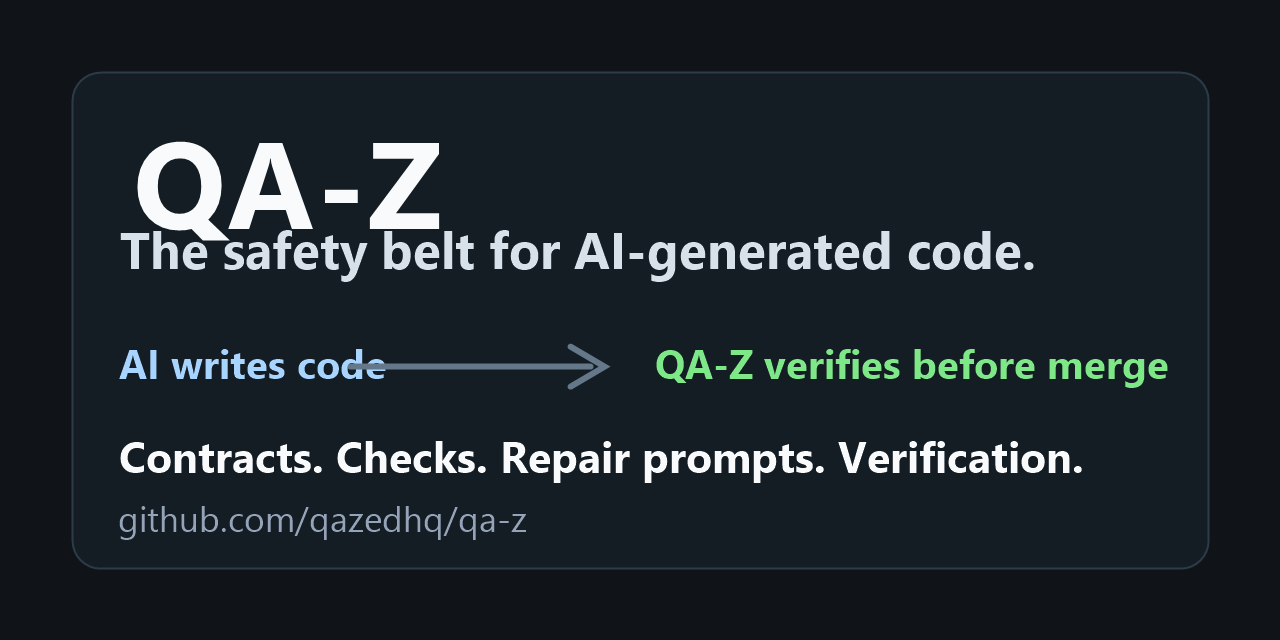
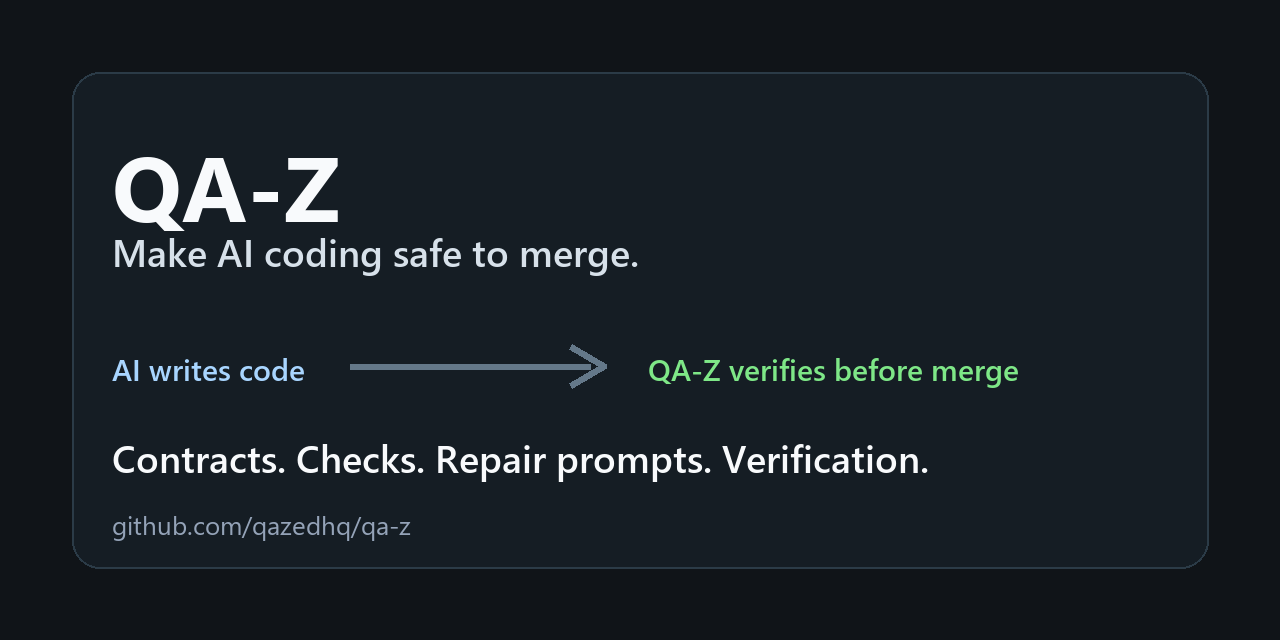
docs: add visual launch demo assets
- Add deterministic QA-Z terminal demo asset
- Link README to the visual/cast proof
- Update examples docs with visual proof and runnable/placeholder labels
- Update launch docs for demo GIF, social preview, and launch post copy

diff --git a/tests/test_launch_growth_package.py b/tests/test_launch_growth_package.py
@@ -38,6 +38,8 @@ def test_launch_growth_package_covers_requested_surfaces() -> None:
         "docs/walkthroughs/auth-bug.md",
         "docs/walkthroughs/pr-gate.md",
         "docs/walkthroughs/sarif-code-scanning.md",
+        "docs/assets/qa-z-demo.cast",
+        "docs/assets/qa-z-demo.svg",
         "docs/assets/qa-z-agent-auth-bug.cast",
         "examples/fastapi-agent-bug/README.md",
         "examples/typescript-agent-bug/README.md",
@@ -90,6 +92,58 @@ def test_demo_asciinema_asset_is_real_cast_shape() -> None:
     assert "qa-z deep" in body
     assert "qa-z verify" in body
     assert "verdict: improved" in body
+
+
+def test_readme_demo_visual_is_checked_in_and_public_safe() -> None:
+    readme = read("README.md")
+    demo_cast_lines = read("docs/assets/qa-z-demo.cast").splitlines()
+    demo_svg = read("docs/assets/qa-z-demo.svg")
+
+    assert "Planned demo asset" not in readme
+    assert "docs/assets/qa-z-demo.svg" in readme
+    assert "docs/assets/qa-z-demo.cast" in readme
+    assert "See QA-Z catch a risky agent auth change before merge." in readme
+
+    header = json.loads(demo_cast_lines[0])
+    body = "\n".join(demo_cast_lines[1:])
+
+    assert header["version"] == 2
+    assert header["width"] == 100
+    assert header["height"] == 28
+    assert "timestamp" not in header
+    for text in (
+        "pipx install git+https://github.com/qazedhq/qa-z.git",
+        "qa-z init --profile python --with-agent-templates",
+        "qa-z doctor",
+        "qa-z demo auth-bug",
+        "qa-z guard --from-run latest --adapter codex",
+        "Verdict: DO NOT MERGE YET",
+        "qa-z repair-prompt --from-run latest --adapter codex",
+    ):
+        assert text in body
+        assert text in demo_svg
+
+    public_surfaces = "\n".join([readme, body, demo_svg])
+    for forbidden in ("F:\\", "C:\\Users", "SECRET", "TOKEN", "BEGIN PRIVATE"):
+        assert forbidden not in public_surfaces
+
+
+def test_examples_index_links_visual_proof_and_labels_run_status() -> None:
+    examples_index = read("examples/README.md")
+    agent_demo = read("examples/agent-auth-bug/README.md")
+    fastapi_agent = read("examples/fastapi-agent-bug/README.md")
+    ts_agent = read("examples/typescript-agent-bug/README.md")
+
+    assert "## Visual proof" in examples_index
+    assert "../docs/assets/qa-z-demo.svg" in examples_index
+    assert "../docs/assets/qa-z-agent-auth-bug.cast" in examples_index
+    assert "Runnable" in examples_index
+    assert "Placeholder-only" in examples_index
+
+    for doc in (agent_demo, fastapi_agent, ts_agent):
+        assert "Terminal proof" in doc
+        assert "qa-z-agent-auth-bug.cast" in doc
+        assert "qa-z verify" in doc
 
 
 def test_agent_bug_examples_are_documented_and_configured() -> None:
@@ -179,6 +233,9 @@ def test_launch_asset_docs_avoid_fabricated_public_claims() -> None:
     )
 
     assert "qa-z-social-preview.png" in combined
+    assert "qa-z-demo.svg" in combined
+    assert "QA-Z" in combined
+    assert "Make AI coding safe to merge." in combined
     assert "qa-z-agent-auth-bug.cast" in combined
     assert "No package registry publish has happened yet." in combined
     assert "fake adoption" in combined

diff --git a/tests/test_demo_guard_action_package.py b/tests/test_demo_guard_action_package.py
@@ -150,7 +150,9 @@ def test_public_install_docs_and_readme_reference_guard_and_skill_pack() -> None
 
     assert "Make AI coding safe to merge." in readme
     assert readme.startswith("# QA-Z 🛡\n\n> Make AI coding safe to merge.\n")
-    assert "docs/assets/qa-z-demo.gif" in readme
+    assert "docs/assets/qa-z-demo.svg" in readme
+    assert "docs/assets/qa-z-demo.cast" in readme
+    assert "not a GIF" in readme
     assert "qa-z guard" in readme
     assert "qa-z skill install all" in readme
     assert "pipx install git+https://github.com/qazedhq/qa-z.git" in readme

diff --git a/docs/launch/demo-gif-plan.md b/docs/launch/demo-gif-plan.md
@@ -1,27 +1,42 @@
-# Demo GIF Plan
+# Demo Visual Asset
 
-The demo GIF should be generated from the checked-in asciinema cast, not from
-hand-edited or fabricated terminal output.
+Status: the README now uses a checked-in terminal cast and SVG visual. No GIF is committed in this package; if a GIF is added later, it must be generated from the checked-in casts below.
 
-Source:
+Checked-in sources:
 
+- [../assets/qa-z-demo.cast](../assets/qa-z-demo.cast)
+- [../assets/qa-z-demo.svg](../assets/qa-z-demo.svg)
 - [../assets/qa-z-agent-auth-bug.cast](../assets/qa-z-agent-auth-bug.cast)
 
-Scenario:
+README scenario:
 
 ```bash
+pipx install git+https://github.com/qazedhq/qa-z.git
+qa-z init --profile python --with-agent-templates
+qa-z doctor
 qa-z demo auth-bug
-qa-z guard
+qa-z guard --from-run latest --adapter codex
 qa-z repair-prompt --from-run latest --adapter codex
+```
+
+Full agent-auth-bug cast scenario:
+
+```bash
+qa-z plan --title "AI auth bug caught by QA-Z" --issue issue.md --spec spec.md --slug ai-auth-bug --overwrite
+qa-z fast --output-dir .qa-z/runs/baseline
+qa-z deep --from-run .qa-z/runs/baseline
+qa-z repair-prompt --from-run .qa-z/runs/baseline --adapter codex
 qa-z verify --baseline-run .qa-z/runs/baseline --candidate-run .qa-z/runs/candidate
 ```
 
-Acceptance:
+Acceptance status:
 
-- The GIF is short enough for the README first screen.
-- The GIF shows deterministic QA-Z evidence, not live-agent execution.
-- The README keeps copyable text commands next to the visual.
+- README links to the short SVG visual and terminal cast without replacing text commands.
+- The asset is deterministic and public-safe.
+- The full agent-auth-bug cast shows deterministic QA-Z evidence, not live-agent execution.
+- Examples documentation links the cast proof and keeps runnable versus placeholder labels explicit.
 - Local machine paths, secrets, and private artifacts are not visible.
+- A future GIF is optional, not required to close the current visual proof issues.
 
 Validation:
 

diff --git a/docs/launch/launch-post.md b/docs/launch/launch-post.md
@@ -3,17 +3,17 @@
 These drafts are starting points for public launch surfaces. They intentionally
 avoid adoption numbers, package-registry claims, or claims that QA-Z edits code.
 
-## GitHub Release / Repository Post
+## GitHub Repository Post
 
-QA-Z is the safety belt for AI-generated code.
+QA-Z makes AI coding safe to merge.
 
 Coding agents write code quickly. QA-Z turns their changes into deterministic
 merge evidence: QA contracts, fast checks, Semgrep-backed deep checks, repair
 prompts, and post-repair verification.
 
-Try the local auth-bug demo, inspect the generated `.qa-z` artifacts, and open a
-good-first issue from the launch queue if you want to help make agent-generated
-code safer to merge.
+Try the terminal demo in the README, inspect the checked-in casts under
+`docs/assets/`, and run the local auth-bug example to see QA-Z stop a risky auth
+change before merge.
 
 ## Hacker News
 
@@ -36,5 +36,6 @@ QA-Z tells you if that code is safe to merge.
 It wraps agent-generated changes in deterministic QA evidence: contracts,
 checks, repair prompts, and post-repair verification.
 
+Terminal demo: https://github.com/qazedhq/qa-z/blob/main/docs/assets/qa-z-demo.cast
 Alpha prerelease: https://github.com/qazedhq/qa-z/releases/tag/v0.9.9-alpha
 Repo: https://github.com/qazedhq/qa-z

diff --git a/docs/launch/social-preview.md b/docs/launch/social-preview.md
@@ -1,19 +1,28 @@
 # Social Preview
 
-Use the existing launch preview asset for GitHub's repository social preview:
+Final copy:
+
+```text
+QA-Z 🛡
+Make AI coding safe to merge.
+Contracts. Checks. Repair prompts. Verification.
+```
+
+Use the checked-in launch preview assets as the source for GitHub's repository social preview:
 
 - PNG upload target: [../assets/qa-z-social-preview.png](../assets/qa-z-social-preview.png)
 - Editable source: [../assets/qa-z-social-preview.svg](../assets/qa-z-social-preview.svg)
 - Size: `1280 x 640`
 
-Copy:
+Exact GitHub UI steps:
 
-```text
-QA-Z
-The safety belt for AI-generated code.
-Contracts. Checks. Repair prompts. Verification.
-github.com/qazedhq/qa-z
-```
+1. Open `https://github.com/qazedhq/qa-z/settings`.
+2. In **General**, scroll to **Social preview**.
+3. Select **Upload image**.
+4. Upload `docs/assets/qa-z-social-preview.png`.
+5. Save the repository settings and re-open the public repository page to confirm the preview.
+
+Status: this commit updates the repository asset plan only. It does not claim the GitHub UI social preview has been set.
 
 Do not add fake screenshots, fake adoption numbers, or package-registry claims.
 If the copy changes, update the SVG and regenerate the PNG from that source.

diff --git a/README.md b/README.md
@@ -10,12 +10,19 @@
 
 AI agents write code fast. QA-Z turns their changes into deterministic merge evidence: contracts, checks, repair prompts, and verification reports.
 
-Planned demo asset: `docs/assets/qa-z-demo.gif`. Until that GIF lands, run the local demo:
+See QA-Z catch a risky agent auth change before merge.
+
+![QA-Z terminal demo](docs/assets/qa-z-demo.svg)
+
+This is a deterministic terminal cast proof, not a GIF. The checked-in sources are [docs/assets/qa-z-demo.cast](docs/assets/qa-z-demo.cast), [docs/assets/qa-z-demo.svg](docs/assets/qa-z-demo.svg), and the fuller [agent-auth-bug asciinema cast](docs/assets/qa-z-agent-auth-bug.cast).
 
 ```bash
 pipx install git+https://github.com/qazedhq/qa-z.git
+qa-z init --profile python --with-agent-templates
+qa-z doctor
 qa-z demo auth-bug
-qa-z guard
+qa-z guard --from-run latest --adapter codex
+qa-z repair-prompt --from-run latest --adapter codex
 ```
 
 ## Quickstart

diff --git a/examples/README.md b/examples/README.md
@@ -11,6 +11,15 @@ Start here:
 | [fastapi-demo](fastapi-demo/) | Runnable | Passing fast/review flow and intentional failing repair-prompt flow |
 | [nextjs-demo](nextjs-demo/) | Placeholder-only | Planned future Next.js workflow boundary |
 
+## Visual proof
+
+![QA-Z terminal demo](../docs/assets/qa-z-demo.svg)
+
+- README launch proof: [qa-z-demo.cast](../docs/assets/qa-z-demo.cast)
+- Agent auth bug proof: [qa-z-agent-auth-bug.cast](../docs/assets/qa-z-agent-auth-bug.cast)
+- The agent-auth-bug cast shows `qa-z plan`, `qa-z fast`, `qa-z deep`, `qa-z repair-prompt`, and `qa-z verify`.
+- Runnable examples are labeled `Runnable`; placeholder examples stay labeled `Placeholder-only` until they include their own config, source, tests, and deterministic commands.
+
 ## Agent Auth Bug
 
 From `examples/agent-auth-bug/`:

diff --git a/examples/typescript-demo/README.md b/examples/typescript-demo/README.md
@@ -4,6 +4,10 @@ This demo is a small Vitest project for the TypeScript fast gate.
 
 It is a fast-only demo, not a Next.js demo. It does not configure TypeScript-specific deep automation, does not call live agents, and does not run `executor-bridge` or `executor-result`.
 
+## Visual proof
+
+For the public launch terminal proof, see [qa-z-demo.svg](../../docs/assets/qa-z-demo.svg) and [qa-z-agent-auth-bug.cast](../../docs/assets/qa-z-agent-auth-bug.cast). This TypeScript demo remains a runnable fast-gate example; the deep `qa-z verify` proof is covered by the agent-auth-bug casts.
+
 ```bash
 npm install
 python -m qa_z plan --path . --title "Protect invoice totals" --issue issue.md --spec spec.md

diff --git a/examples/fastapi-demo/README.md b/examples/fastapi-demo/README.md
@@ -6,6 +6,10 @@ The service exposes pure functions so the demo works without installing a web se
 
 It is a deterministic fast and repair-prompt demo. It does not configure deep checks, does not call live agents, and does not run `repair-session`, `executor-bridge`, or `executor-result`.
 
+## Visual proof
+
+For the public launch terminal proof, see [qa-z-demo.svg](../../docs/assets/qa-z-demo.svg) and [qa-z-agent-auth-bug.cast](../../docs/assets/qa-z-agent-auth-bug.cast). This FastAPI demo remains a runnable fast/review/repair-prompt example; the deep `qa-z verify` proof is covered by the agent-auth-bug casts.
+
 ## Passing Flow
 
 From this directory:

diff --git a/examples/fastapi-agent-bug/README.md b/examples/fastapi-agent-bug/README.md
@@ -4,6 +4,10 @@ AI wrote a bad FastAPI auth check. QA-Z caught it.
 
 This runnable demo mirrors the five-minute safety-belt story with a FastAPI-shaped app. It keeps the test surface dependency-light by testing pure functions directly; if FastAPI is installed, `app/main.py` also exposes a small app object.
 
+## Terminal proof
+
+The shared launch proof [qa-z-agent-auth-bug.cast](../../docs/assets/qa-z-agent-auth-bug.cast) shows the same evidence shape used here: `qa-z plan`, `qa-z fast`, `qa-z deep`, `qa-z repair-prompt`, and `qa-z verify`. This FastAPI example is runnable, not placeholder-only.
+
 ## Baseline
 
 ```bash

diff --git a/examples/typescript-agent-bug/README.md b/examples/typescript-agent-bug/README.md
@@ -4,6 +4,10 @@ TypeScript agent bug: an agent changed invoice authorization so any signed-in us
 
 This demo is dependency-light. The QA-Z checks run local Node scripts so the example can be replayed without installing npm packages, while the source stays TypeScript-shaped.
 
+## Terminal proof
+
+The shared launch proof [qa-z-agent-auth-bug.cast](../../docs/assets/qa-z-agent-auth-bug.cast) shows the same deterministic flow used here: `qa-z plan`, `qa-z fast`, `qa-z deep`, `qa-z repair-prompt`, and `qa-z verify`. This TypeScript example is runnable, not placeholder-only.
+
 ## Baseline
 
 ```bash

diff --git a/examples/agent-auth-bug/README.md b/examples/agent-auth-bug/README.md
@@ -6,6 +6,10 @@ This five-minute demo shows QA-Z turning an unsafe invoice authorization change 
 
 The demo does not call live agents, does not edit code autonomously, and does not require a web server. It uses local Python functions, pytest, ruff, and an optional Semgrep rule.
 
+## Terminal proof
+
+The checked-in terminal proof is [qa-z-agent-auth-bug.cast](../../docs/assets/qa-z-agent-auth-bug.cast). It shows `qa-z plan`, `qa-z fast`, `qa-z deep`, `qa-z repair-prompt`, and `qa-z verify` without local paths, private artifacts, or live-agent output.
+
 ## Baseline: bad agent change
 
 ```bash
